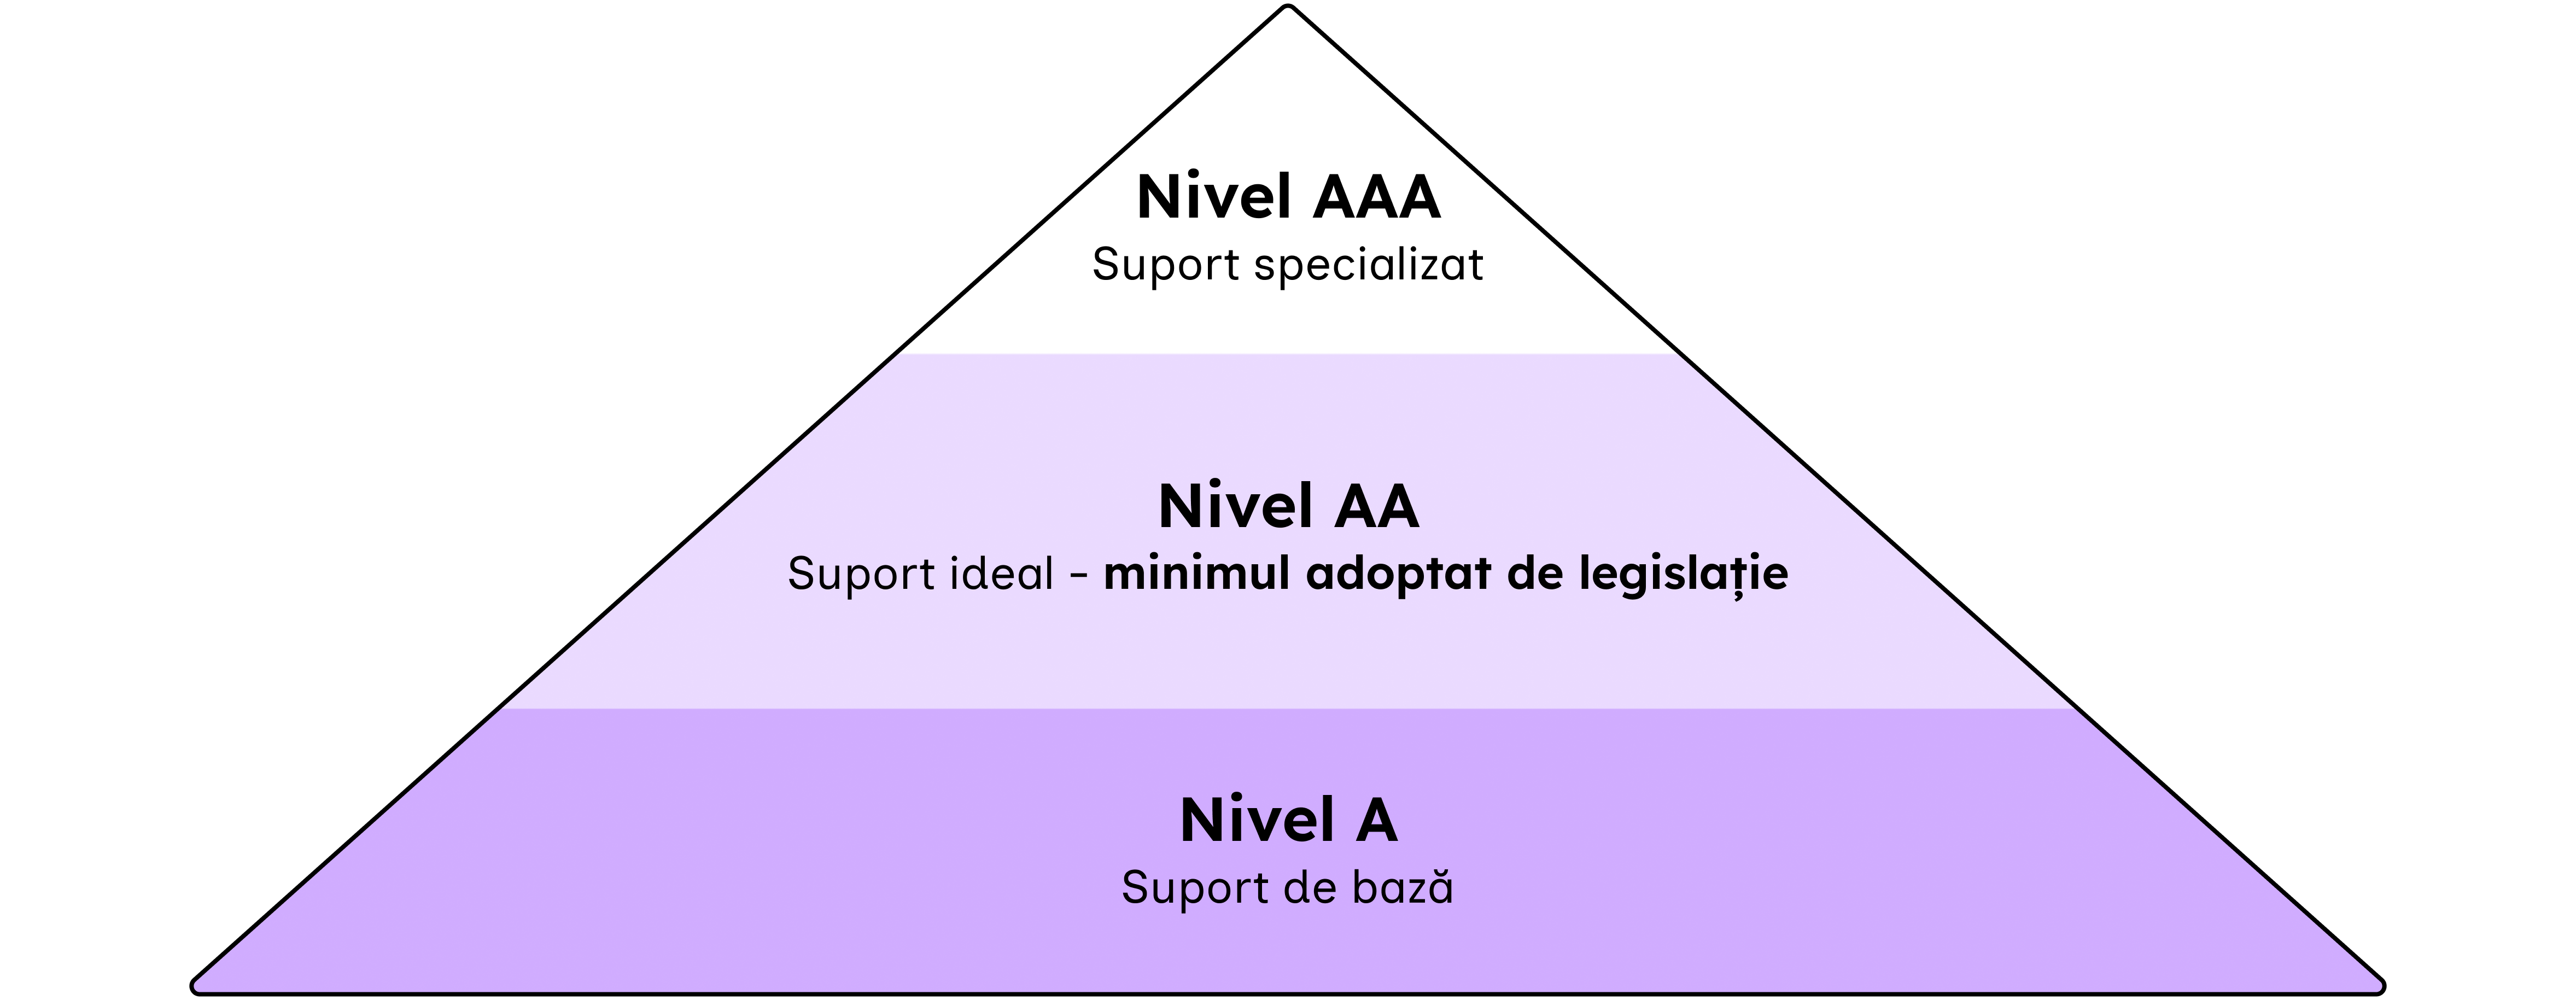
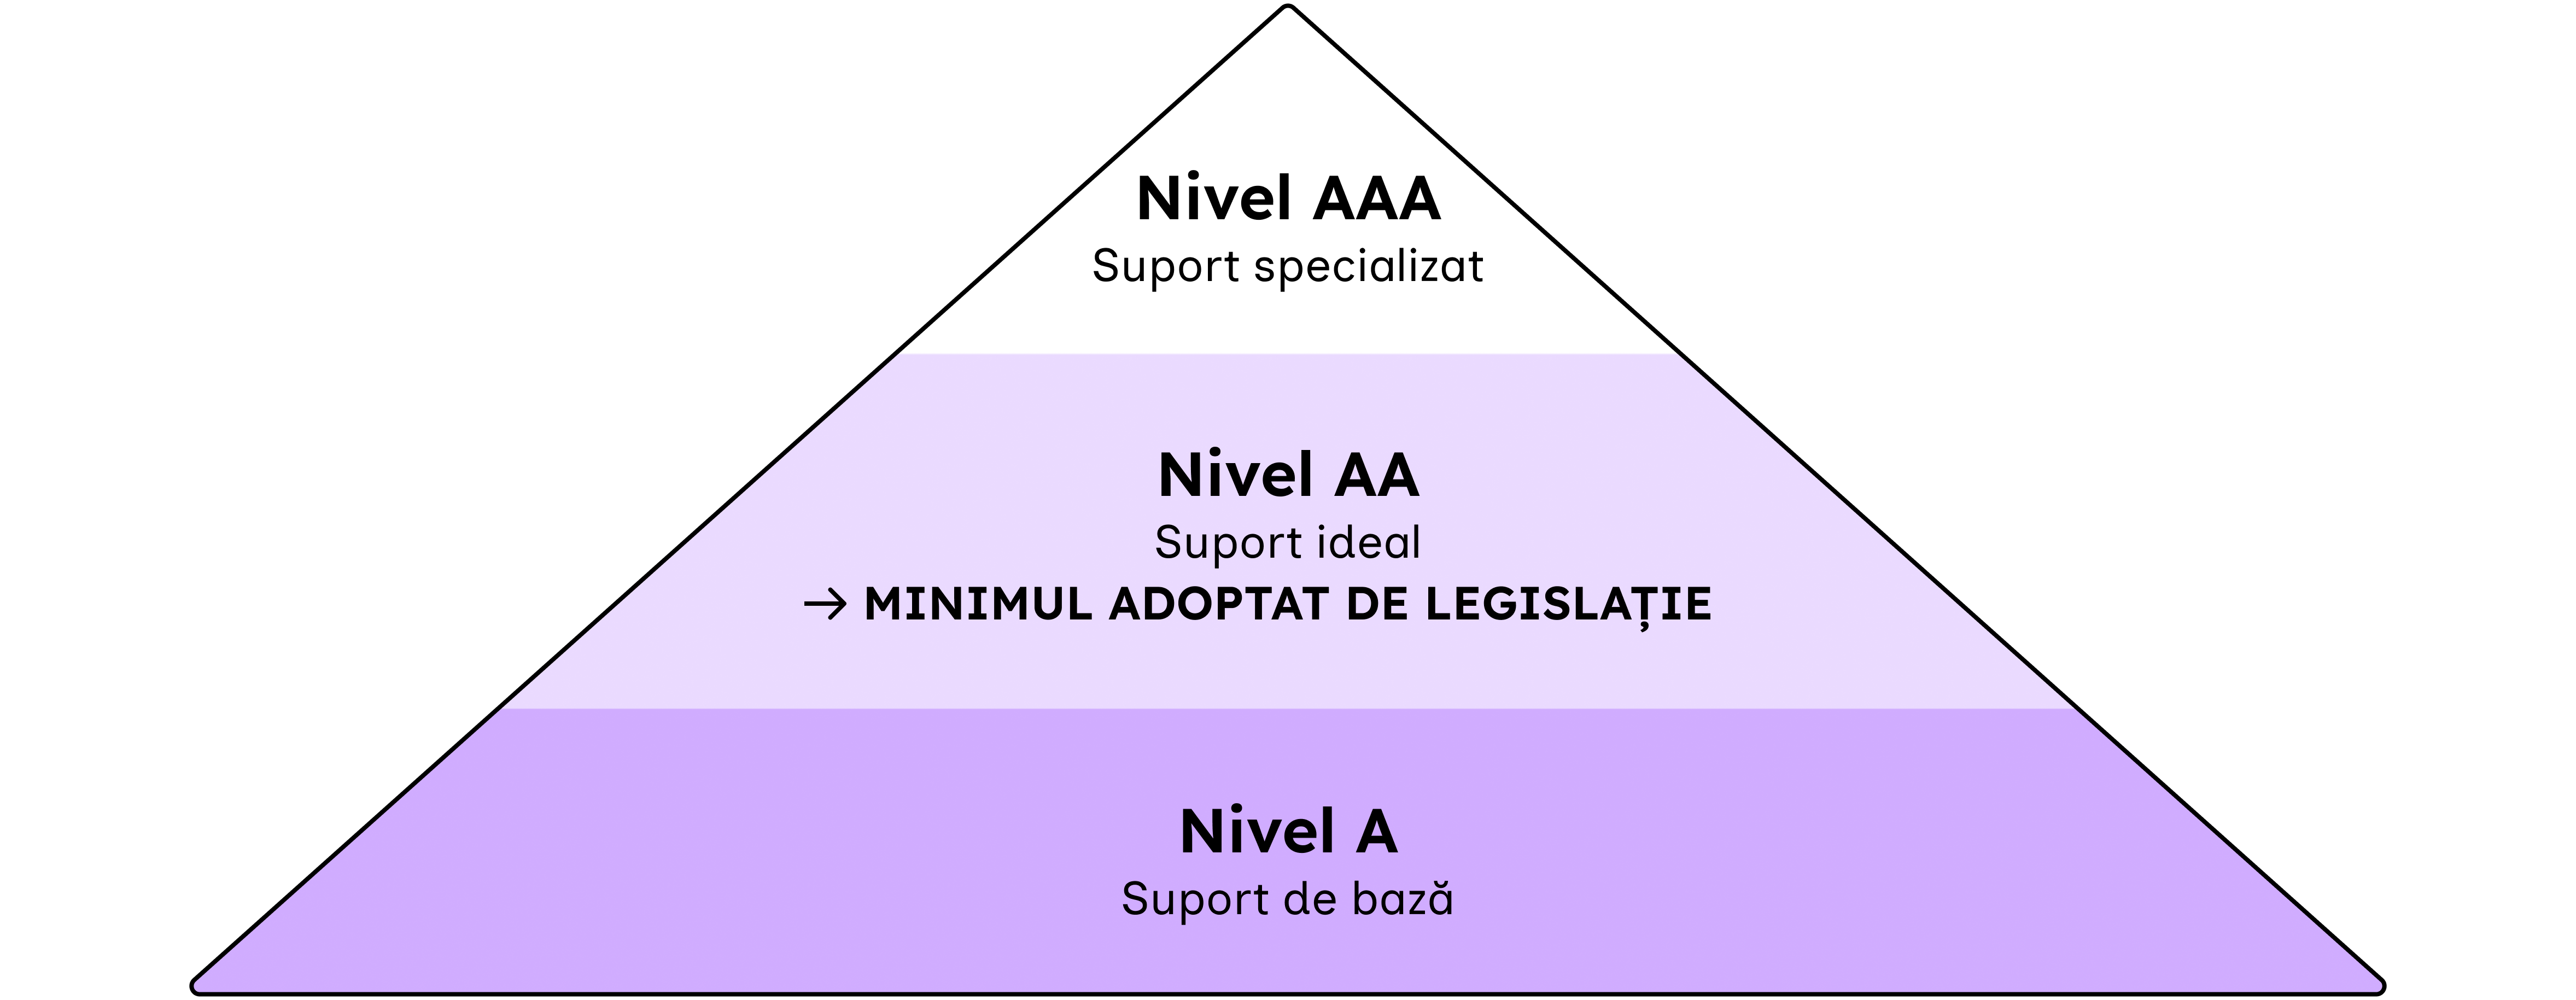
Update slides

diff --git a/src/app/slides/slide-set1/i18n/ro.ts b/src/app/slides/slide-set1/i18n/ro.ts
@@ -35,7 +35,7 @@ const roSlideSetTranslations: TranslatedSlideSet = {
   <img src="img/was.png" alt="Insigna pentru Specialist în accesibilitate digitală">
 </div>
 
-- Specialist în accesibilitate web, cu certificat obținut de Asociația Internațională a Profesioniștilor în Accesibilitate
+- [Specialist în accesibilitate web](https://www.credly.com/badges/8c7936b4-35be-4aa2-9064-eb57ce746db3/public_url), cu certificat obținut de la Asociația Internațională a Profesioniștilor în Accesibilitate
 - Programator Web, cu experiență în crearea de componente pentru site-uri web
       `,
     },
@@ -337,7 +337,7 @@ Se prezintă sub forma unui buton poziționat pe deasupra conținutului unui sit
     },
     {
       content: md`
-### <span aria-hidden="true" class="decorative">🚨</span> Un site cu overlay _nu_ înseamnă un site accesibil!
+### Un site cu overlay <br> <span class="nu">nu</span> înseamnă un site accesibil!
 
 Atunci când accesibilitatea este luată în considerare cu adevărat:
 
@@ -350,8 +350,8 @@ Atunci când accesibilitatea este luată în considerare cu adevărat:
       content: md`
 ## <span aria-hidden="true" class="decorative">💚</span> Cum detectăm un site accesibil?
 
-- Conține o **Declarație de accesibilitate**
-- Este o plăcere să folosești acel site, oricum ai încerca să interacționezi cu acesta
+- Conține o **Declarație de accesibilitate**.
+- Este o plăcere să folosești site-ul, oricum ai încerca să interacționezi cu acesta.
 
 ### Demo:
 
@@ -360,7 +360,11 @@ Atunci când accesibilitatea este luată în considerare cu adevărat:
     },
     {
       content: md`
-## Linkuri utile și surse
+## Resurse (engleză)
+
+- [European Accessibility Act (EAA)](https://commission.europa.eu/strategy-and-policy/policies/justice-and-fundamental-rights/disability/european-accessibility-act-eaa_en)
+- [WCAG 2 at a Glance](https://www.w3.org/WAI/standards-guidelines/wcag/glance/) - WCAG pe scurt
+- [NVDA](https://www.nvaccess.org/download/) - Cititor de ecran (Windows)
       `,
     },
     {

diff --git a/src/app/slides/slide-set1/slide-set1.scss b/src/app/slides/slide-set1/slide-set1.scss
@@ -145,4 +145,12 @@
     margin-right: calc(5 * var(--unit));
     margin-bottom: calc(4 * var(--unit));
   }
+
+  ::ng-deep .nu {
+    text-transform: uppercase;
+    border: calc(0.4 * var(--unit)) solid var(--slides-borders);
+    border-radius: calc(0.5 * var(--unit));
+    padding: 0 calc(0.5 * var(--unit));
+    background: var(--background);
+  }
 }